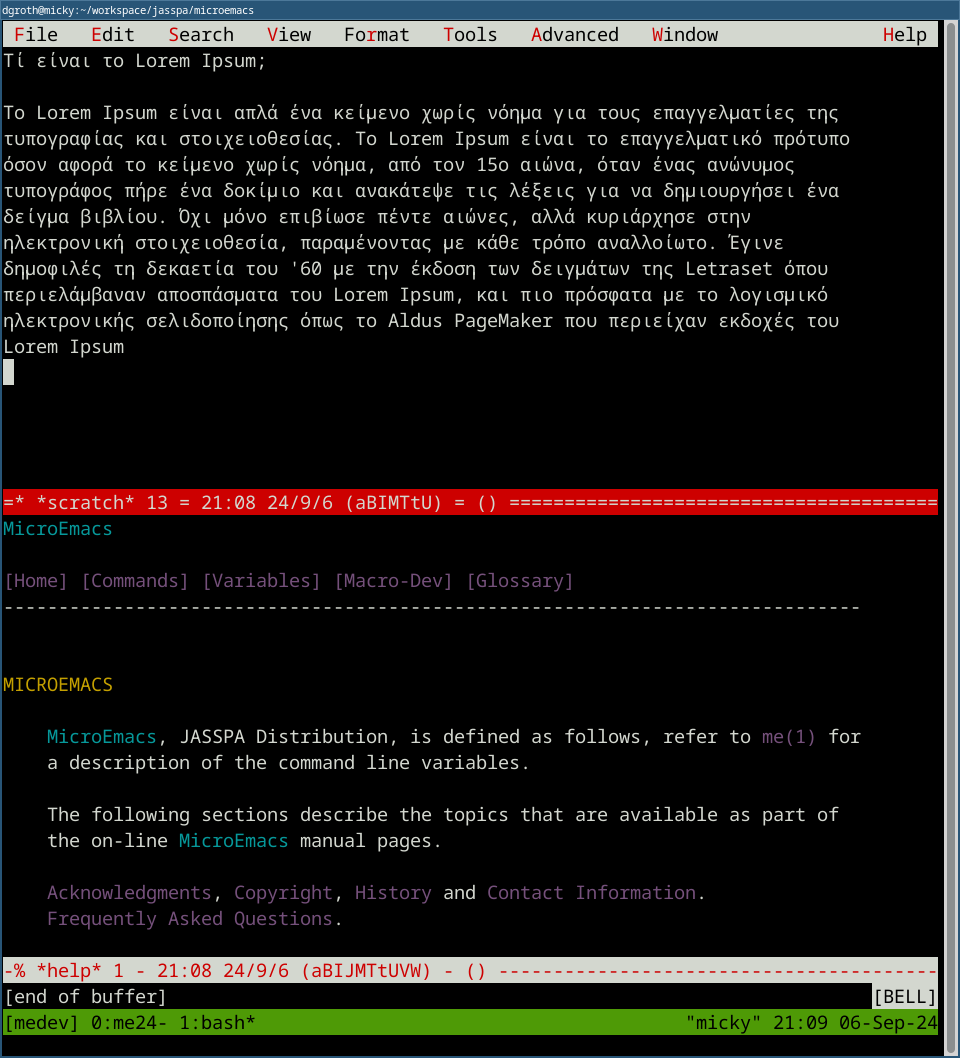
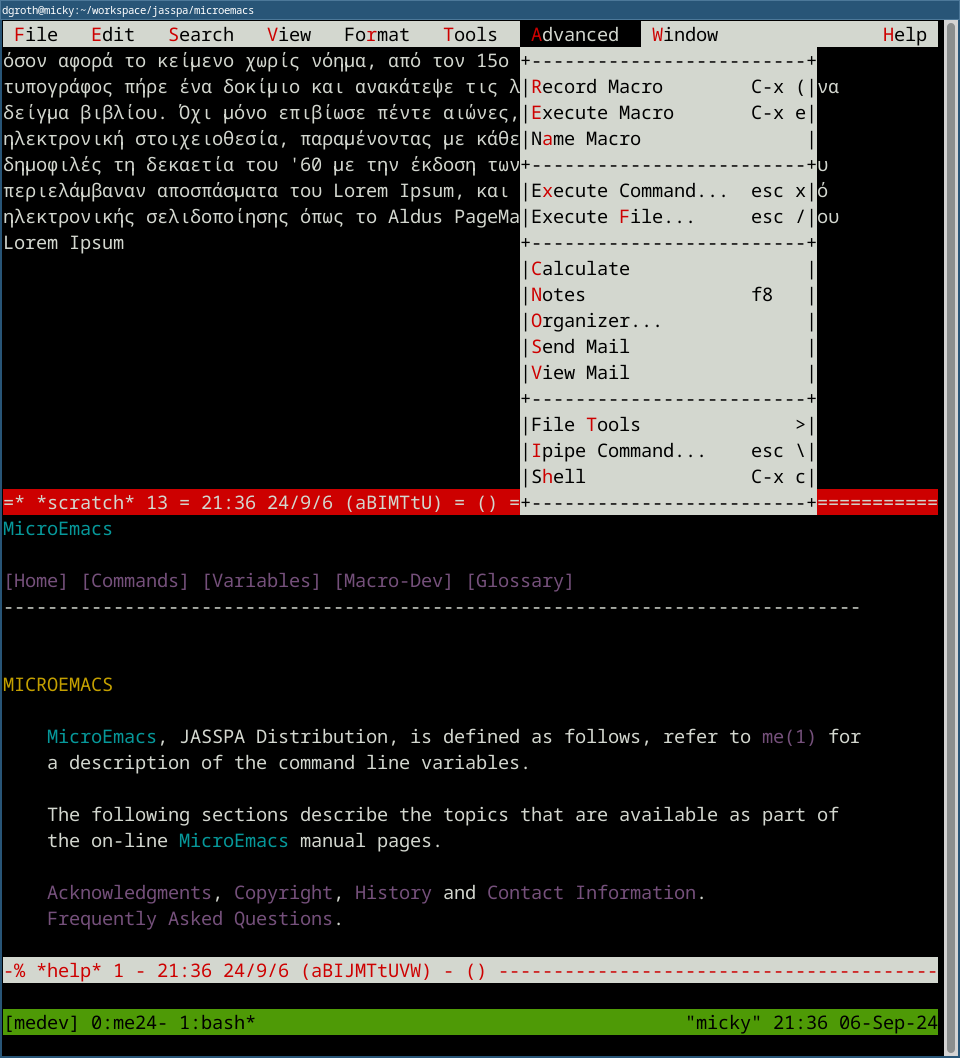
adding terminal greek image

diff --git a/README.md b/README.md
@@ -32,7 +32,8 @@ Cons (because it is a __Micro__-Emacs):
 <img src="microemacs/graphics/ME24.png" width="390px"/>&nbsp;&nbsp;<img src="microemacs/graphics/ME24-terminal-greek.png" width="390px"/>
 
 _Left:_ GUI  version  - theme "Basic  Black on Cream",  _Right:_  Greek Text in the
-Terminal  version  within a Tmux  session - theme:  "Default  White on Black".
+Terminal  version  within a Tmux  session with an open menu entry - theme:  "Default  White on Black".
+The menu entry can be opened on a terminal version usually with "Esc ="
 There  are  more  than  25  themes  (schemes)  to  choose  from  ... The  main
 appplication  frame is split here into two  windows, one is for editing a file, the
 other here has the hyperhelp documentation open. You can as well edit the same
